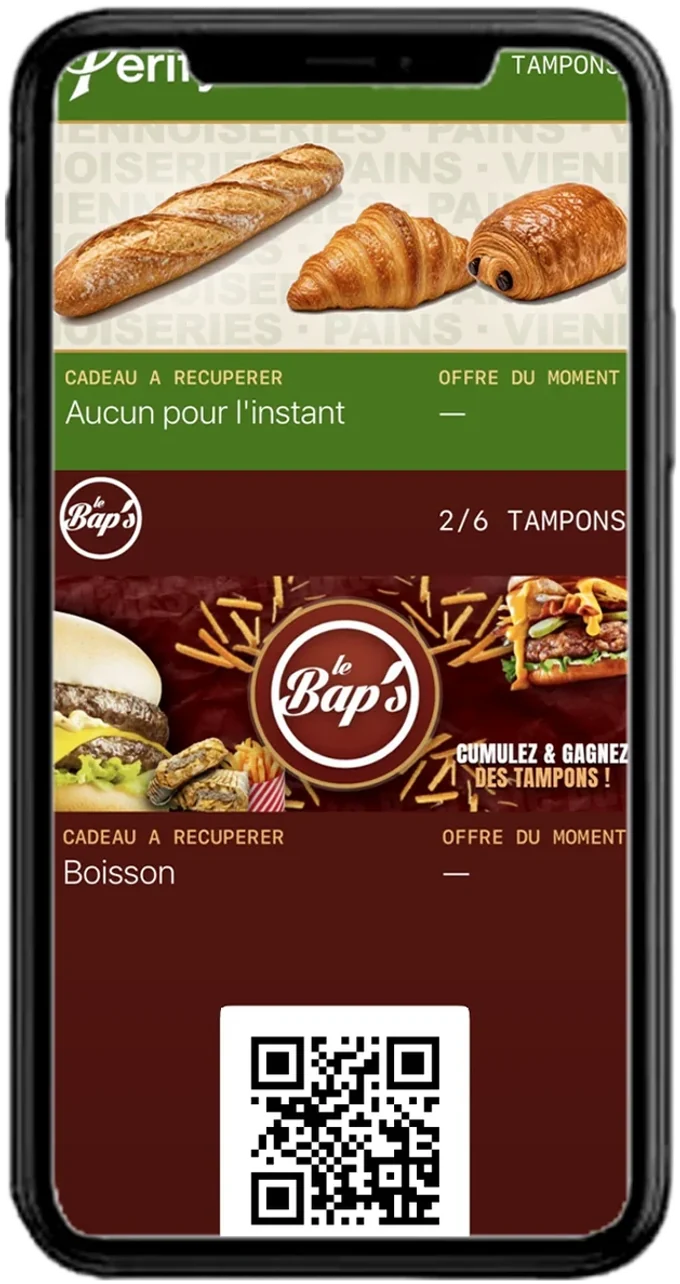
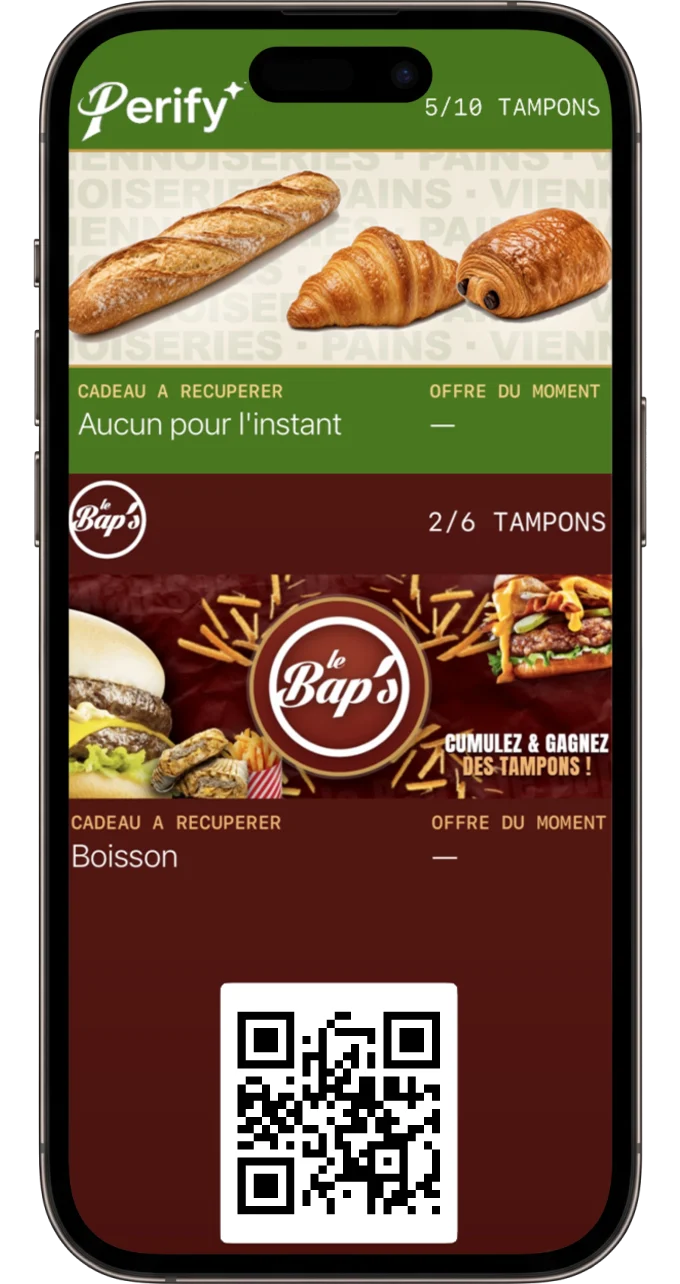
Accueil : l'iPhone du héros remplacé par un iPhone récent (demande de Valentin)
Boîtier d'iPhone récent (Dynamic Island) généré par Higgsfield avec un écran vert ;
l'écran posé dedans est le visuel « Carte wallet iphone » de Valentin (en-tête
« Perify 5/10 TAMPONS » complet, sans l'encoche de l'ancien boîtier). Le QR est
redessiné en vectoriel vers https://perify.app et le numéro de carte « BAP-… » est
retiré. Même boîte 680 × 1284 : la mise en page du héros ne bouge pas.
CLAUDE.md : l'exception « boîtier Higgsfield, vrai écran » et la règle du QR.

diff --git a/index.html b/index.html
@@ -66,7 +66,8 @@
 
     <figure class="scene">
       <div class="scene-plateau">
-        <!-- Visuel de Valentin (deux cartes dans l'app Cartes) : le QR du bas est celui de perify.app, jamais celui d'une carte client. -->
+        <!-- Écran : visuel de Valentin (deux cartes dans l'app Cartes), posé dans un iPhone récent généré par Higgsfield (30/10).
+             Le QR du bas est celui de perify.app, jamais celui d'une carte client ; le numéro de carte est retiré. -->
         <img class="scene-tel" src="img/carte-wallet.webp" width="680" height="1284" fetchpriority="high"
              alt="Deux cartes de fidélité dans l’app Cartes d’un iPhone : une carte Perify et celle du Bap’s, deux tampons sur six et une boisson à récupérer">
         <figure class="morceau morceau-tampons">

diff --git a/CLAUDE.md b/CLAUDE.md
@@ -102,7 +102,10 @@ crème, nuit en haut de page) et « accueil simplifié » d'avant.
 - **Vraies images seulement** (`img/` : visuels Photoshop de Valentin en WebP, captures des vraies pages,
   éléments de la vraie carte) ; jamais de maquette de téléphone dessinée en HTML/CSS, jamais de police à
   empattements « style IA ». Sources hors dépôt (`IMAGE/ressources/valentin-24-09/`,
-  `IMAGE/ressources-valentin/`), préparées avec `sharp` hors du dépôt.
+  `IMAGE/ressources-valentin/`), préparées avec `sharp` hors du dépôt. **Exception (30/10, demande de Valentin)** :
+  un **boîtier** d'iPhone récent généré par Higgsfield (écran vert), dans lequel on pose un VRAI écran (visuel de
+  Valentin ou capture d'une vraie page) ; jamais un écran, un texte ou un QR inventés par l'IA. Sources et script :
+  `IMAGE/livraisons/2026-10-30-refonte-perify/iphone-recent/`.
 - **QR** : celui d'un **présentoir** pouvait rester net (décision de Valentin, 26/09) — **01/10 : flouté sur
   les 8 images** (site ca1118b) parce que ces QR menaient à baps.perify.app et falman.perify.app (un visiteur créait
   une vraie carte chez eux) ; le flou « rendait trop mal » → **remplacé le soir même par un QR NET vers perify.app**
@@ -110,7 +113,9 @@ crème, nuit en haut de page) et « accueil simplifié » d'avant.
   un commerce de démo, jamais à un vrai commerce. Décoder toute image de présentoir avant de pousser. Le QR ou le numéro d'une
   **carte client** (pass Wallet) se floute TOUJOURS — y compris dans `img/parcours.webp`, où le QR du pass
   (téléphone du haut) est flouté (26/09) — et celui du présentoir aussi depuis le 01/10. Le visuel du héros
-  (`img/carte-wallet.webp`, tiré de `carte-wallet-2026-10-30.webp`) porte le QR de perify.app.
+  (`img/carte-wallet.webp`, 30/10 au soir : l'écran du visuel « Carte wallet iphone » de Valentin dans l'iPhone
+  Higgsfield, même boîte 680 × 1284) porte un QR vectoriel vers perify.app, sans numéro de carte (« BAP-… » retiré).
+  L'affiche de la boulangerie (`presentoir-digital-6.webp`, 30/10) menait à falman.perify.app : QR remplacé, même règle.
 - Les captures d'écran avec des chiffres portent « Données de démonstration. » (accueil : « Captures de la vraie
   carte, données de démonstration. », aussi sous les trois étapes de la page 2 depuis le 30/10).
 - Les badges Apple / Google ne servent jamais de décoration ; dans « Ça marche avec », les noms sont écrits
